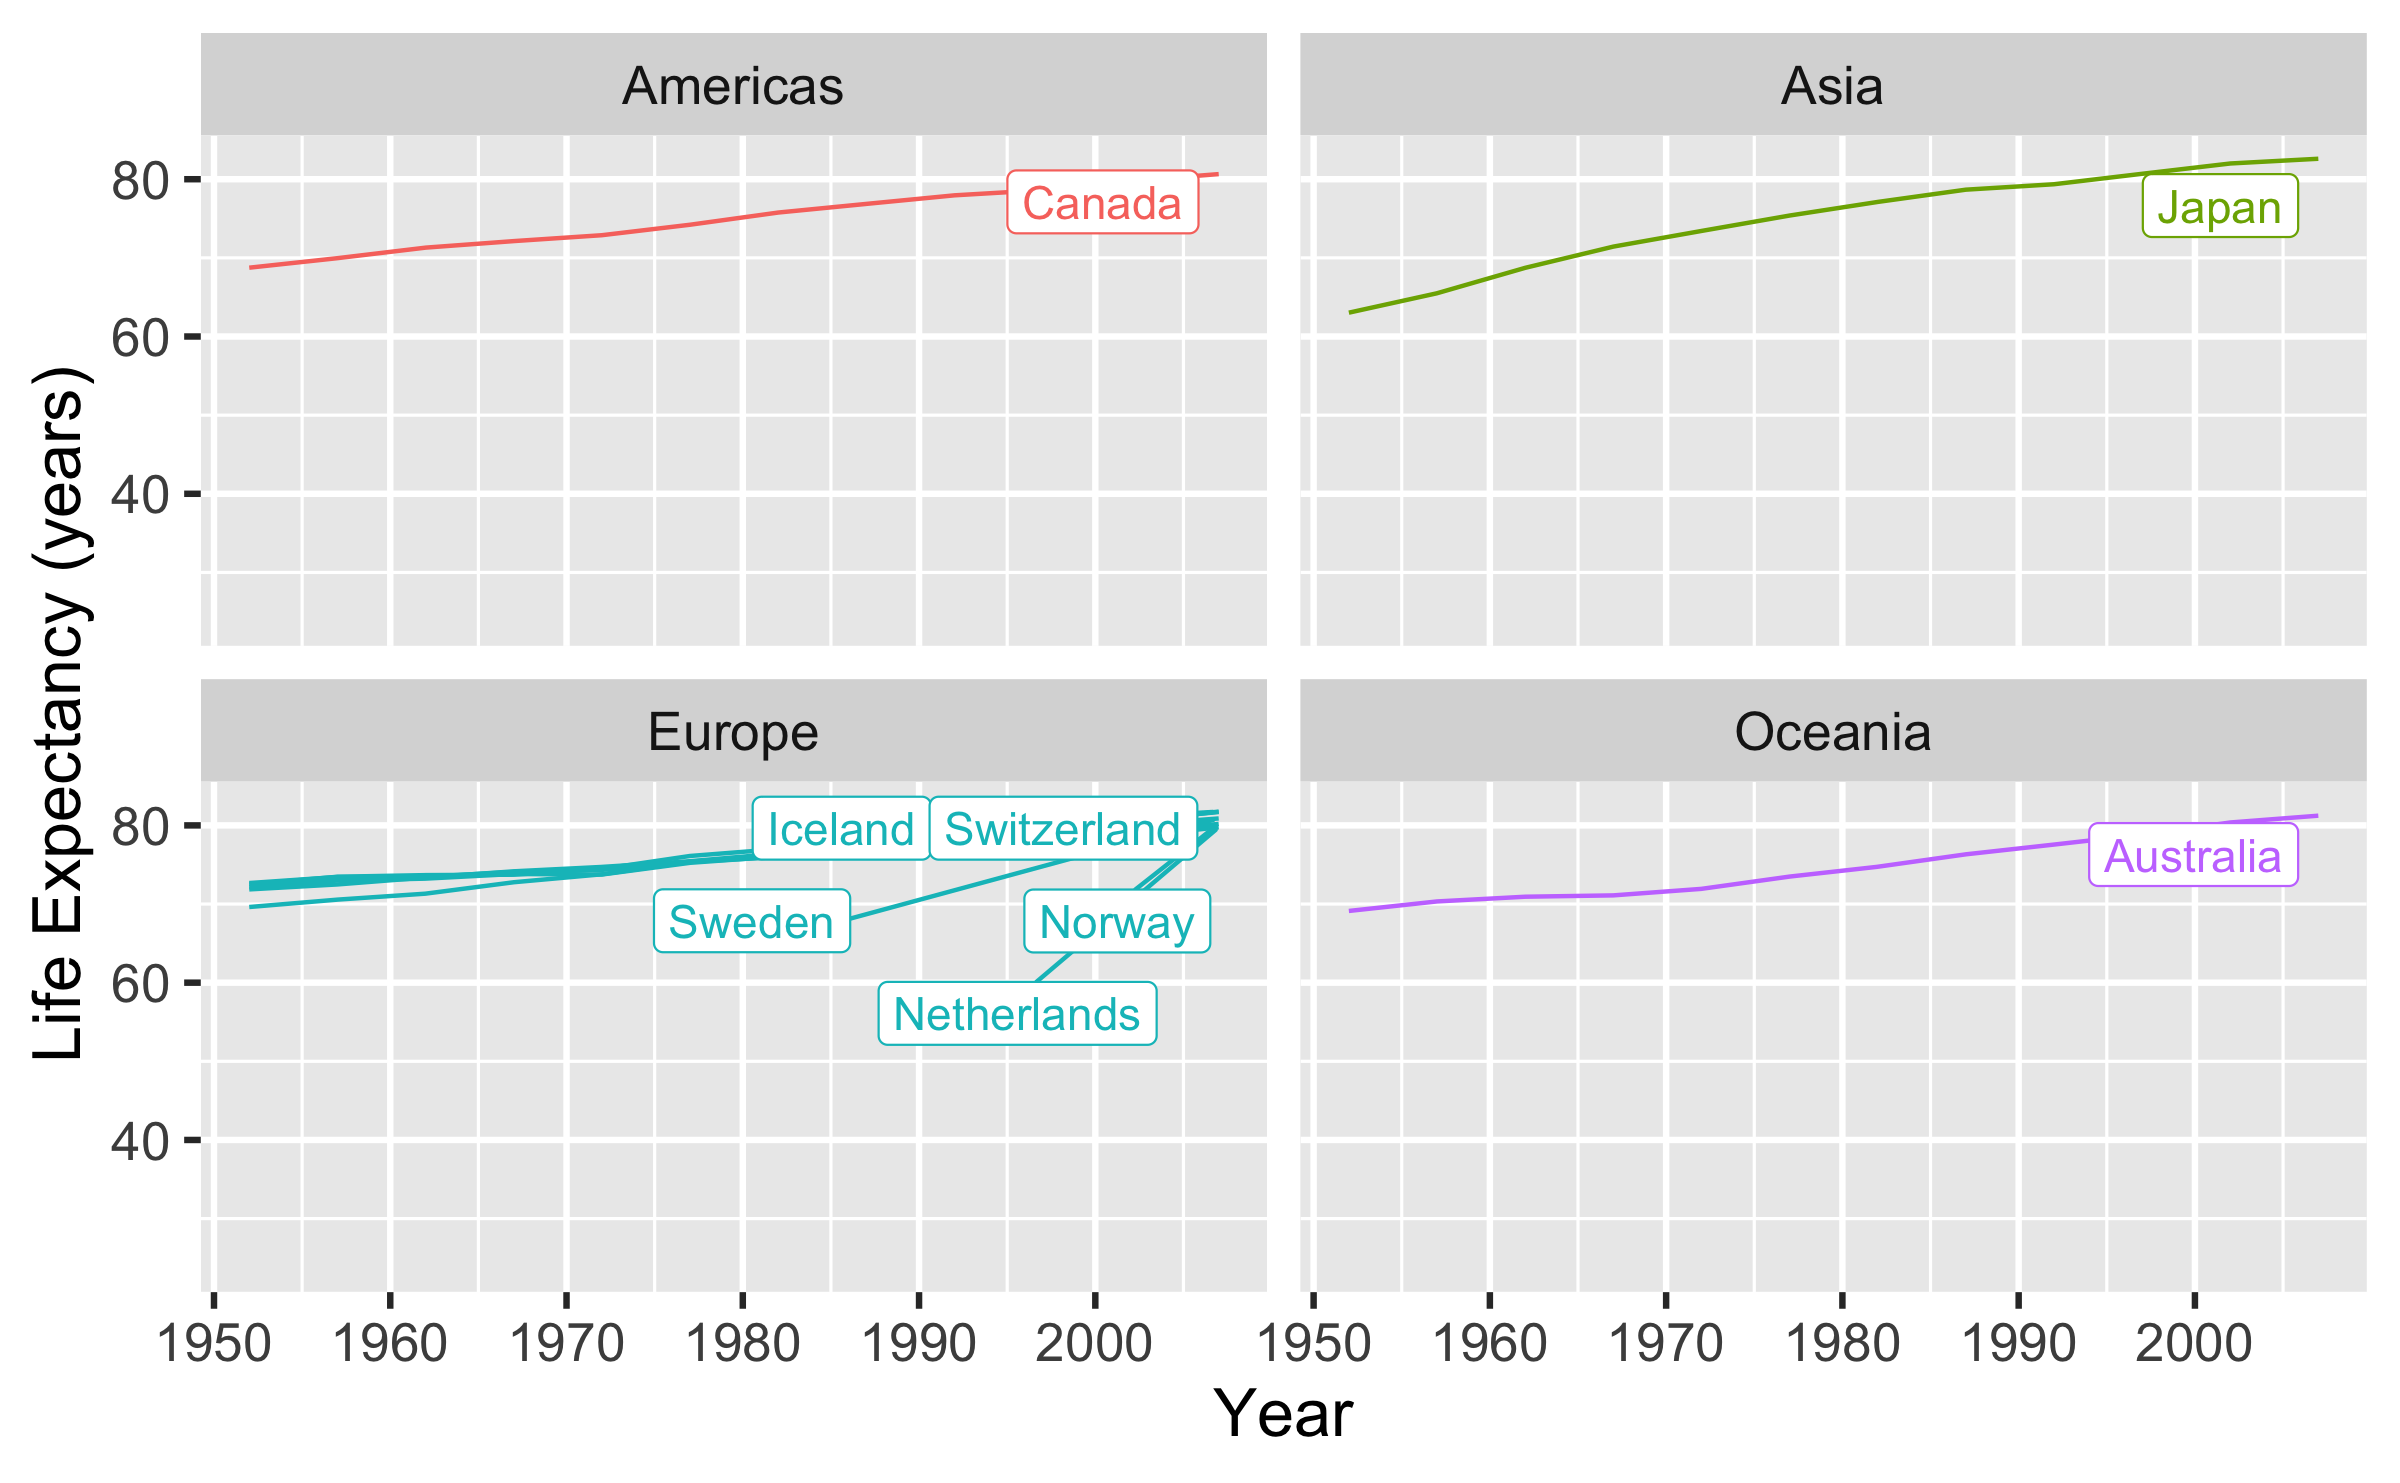
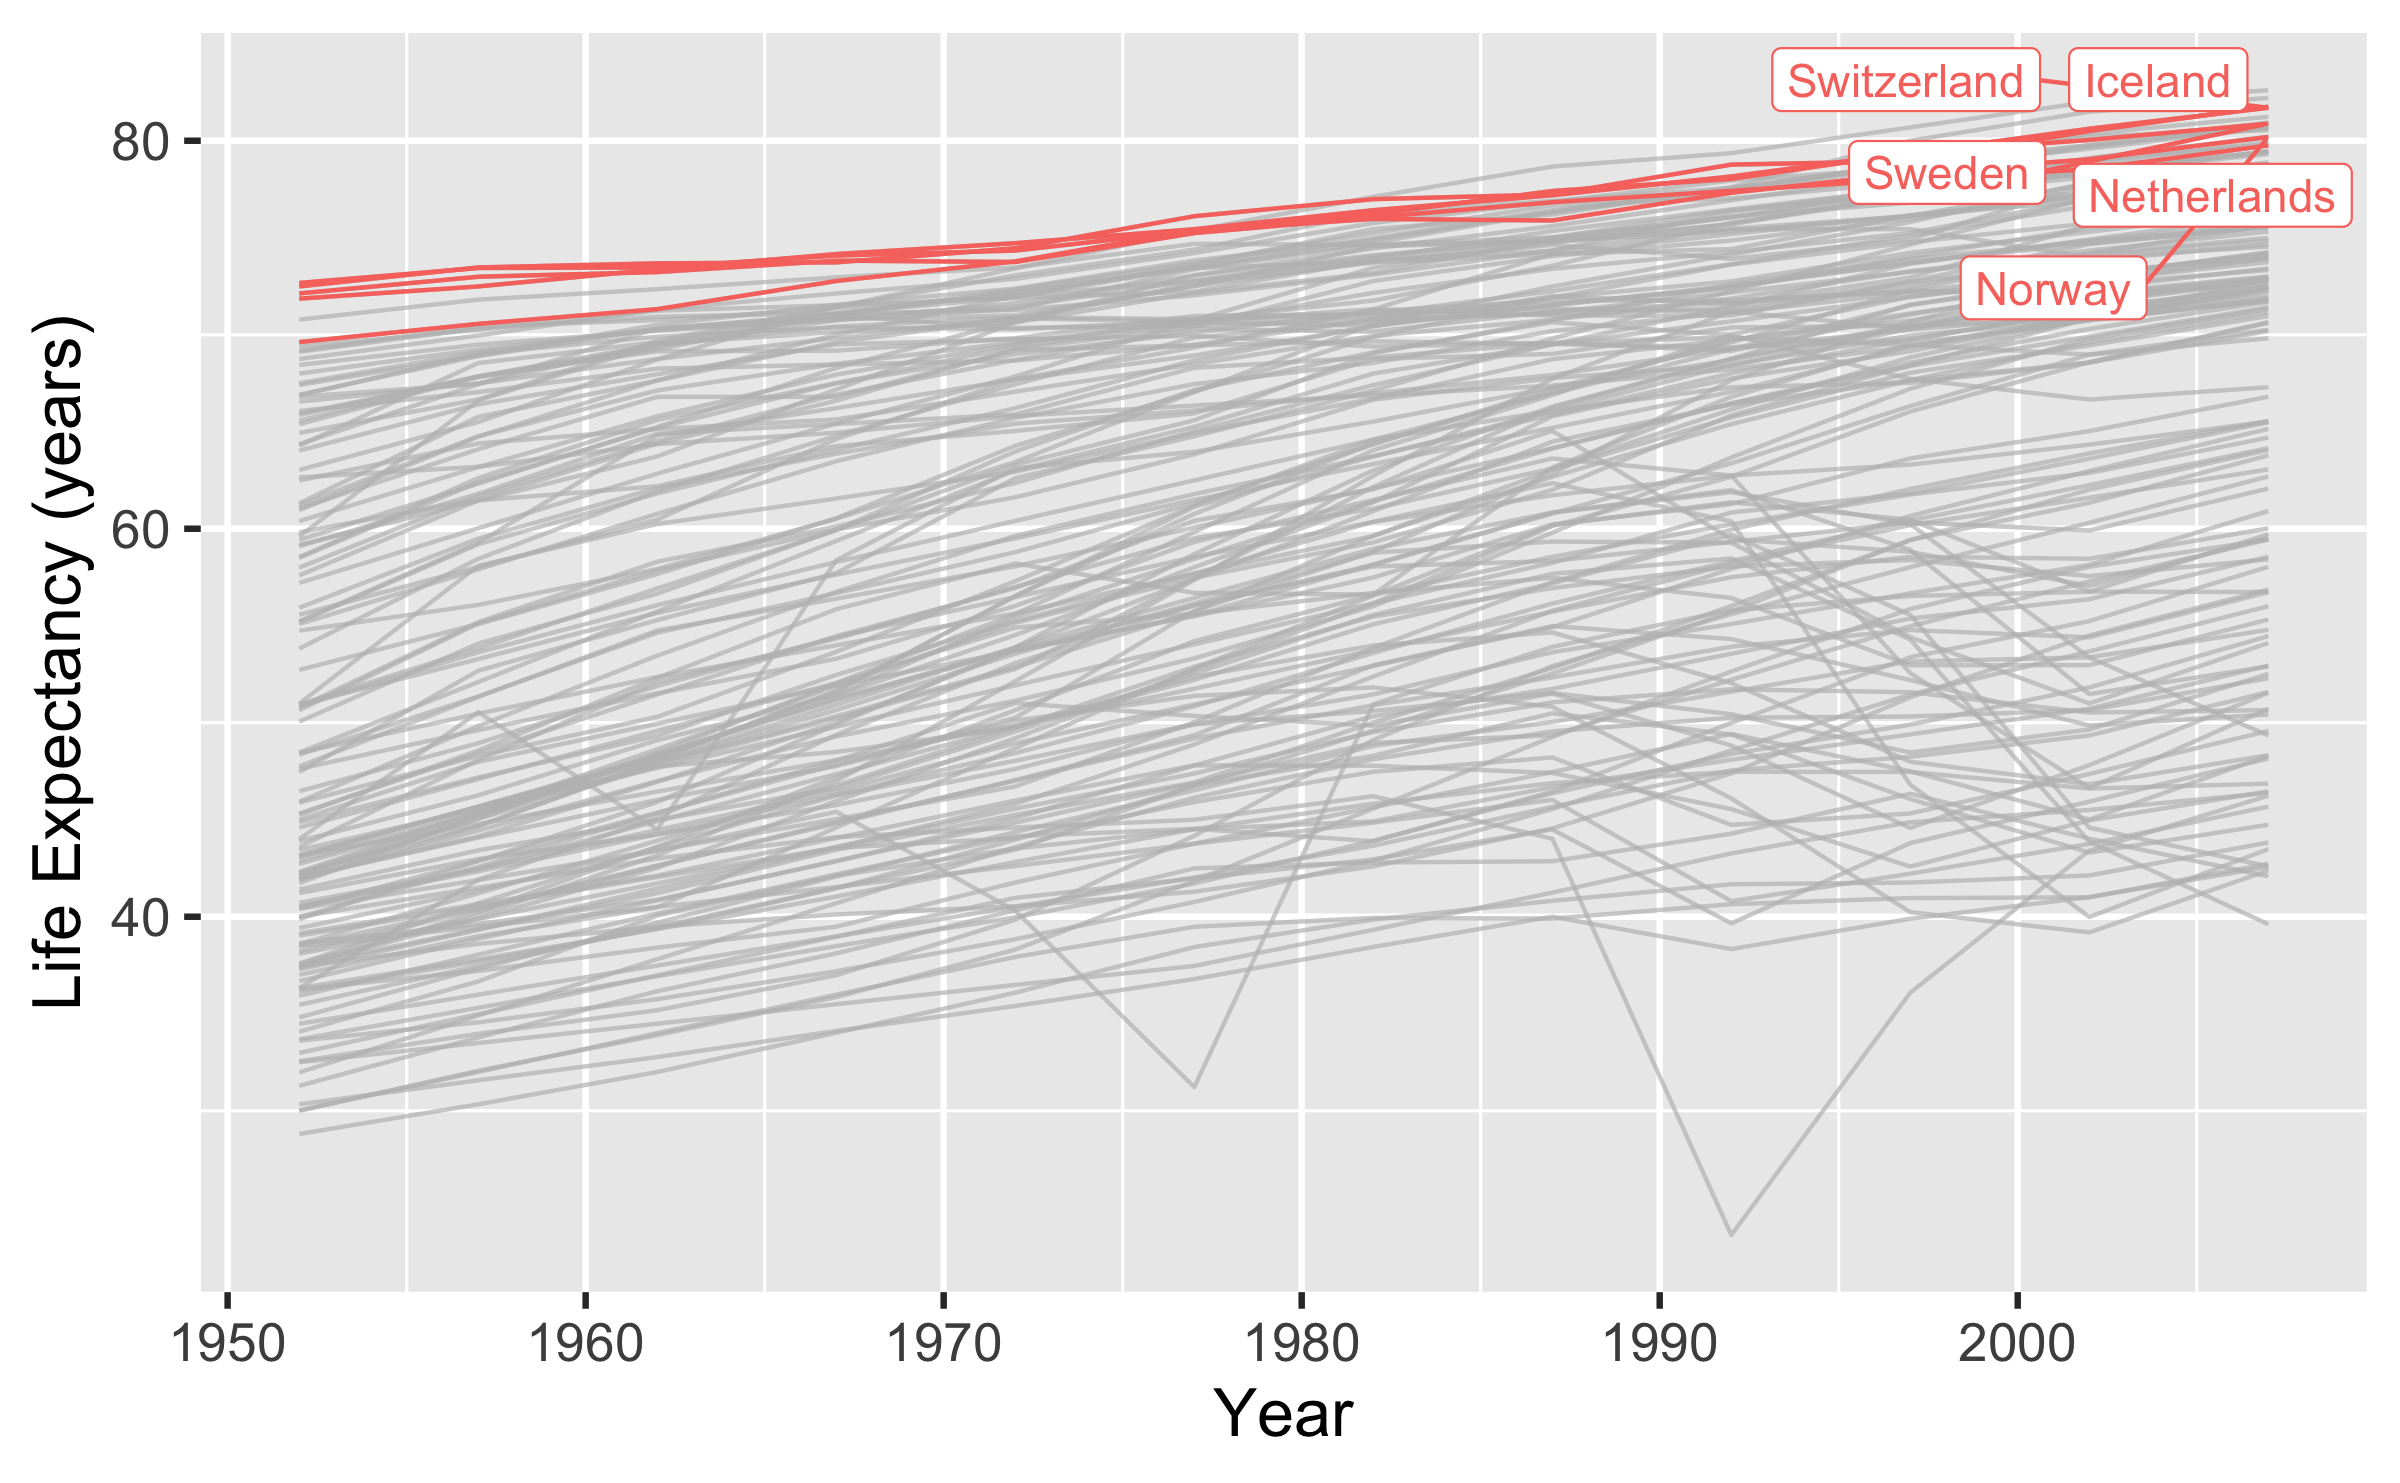
Space out annotation slides

diff --git a/course-materials/slides/u5-d10-axes-themes/u5-d10-axes-themes.html b/course-materials/slides/u5-d10-axes-themes/u5-d10-axes-themes.html
@@ -263,7 +263,7 @@ p1 + theme_economist()
 - [Cambodian Genocide](https://sfi.usc.edu/collections/cambodian-genocide)
 
 ---
-## Add annotations with `geom_vline`
+# Add annotations with `geom_vline`
 
 .panelset[
 &lt;div class="panel"&gt;
@@ -288,7 +288,7 @@ p1 + theme_economist()
 ]
 
 ---
-## Add annotations with `annotate`
+# Add annotations with `annotate`
 
 .panelset[
 &lt;div class="panel"&gt;
@@ -296,7 +296,13 @@ p1 + theme_economist()
 
 ```r
 p1 +
-  annotate("rect", xmin = 1975, xmax = 1979, ymin = 0, ymax = 100, alpha = 0.2, fill = "red")
+  annotate("rect", 
+  xmin = 1975, 
+  xmax = 1979, 
+  ymin = 0, 
+  ymax = 100, 
+  alpha = 0.2, 
+  fill = "red")
 ```
 
 
@@ -309,6 +315,7 @@ p1 +
 &lt;img src="u5-d10-axes-themes_files/figure-html/unnamed-chunk-12-1.png" width="60%" style="display: block; margin: auto;" /&gt;
 
 &lt;/div&gt;
+
 ---
 # Scales
 
@@ -326,6 +333,7 @@ p1 +
 ]
 
 ---
+# Scales
 
 .left-column[
 ### Scales
@@ -340,6 +348,8 @@ p1 +
 ]
 
 ---
+# Scales
+
 .left-column[
 ### Scales
 
@@ -381,6 +391,8 @@ p1 +
 ]
 
 ---
+# Scales
+
 .left-column[
 ### Scales
 
@@ -521,9 +533,7 @@ ggplot(aes(x = year,
   geom_line() +
   labs(x = "Year",
        y = "Life Expectancy (years)") +
-  facet_wrap(~continent) +
-  gghighlight(mean(lifeExp) &gt; 74.5,
-              unhighlighted_params = list(linewidth = 0.5, color = alpha(0.4))) 
+  gghighlight(mean(lifeExp) &gt; 75) 
 ```
 
 
@@ -537,9 +547,40 @@ ggplot(aes(x = year,
 
 &lt;/div&gt;
 ]
+---
+# Annotation - gghighlight
+
+.panelset[
+&lt;div class="panel"&gt;
+&lt;div class="panel-name"&gt;Code&lt;/div&gt;
+
+```r
+gapminder |&gt;
+ggplot(aes(x = year,
+      y = lifeExp, 
+      group = country, 
+      color = continent)) +
+  geom_line() +
+  labs(x = "Year",
+       y = "Life Expectancy (years)") +
+  facet_wrap(~continent) +
+  gghighlight(mean(lifeExp) &gt; 74.5) 
+```
+
+
+
+&lt;/div&gt;
+
+&lt;div class="panel"&gt;
+&lt;div class="panel-name"&gt;Plot&lt;/div&gt;
+
+&lt;img src="u5-d10-axes-themes_files/figure-html/unnamed-chunk-19-1.png" width="60%" style="display: block; margin: auto;" /&gt;
+
+&lt;/div&gt;
+]
 
 ---
-# Thank you
+# Your Turn
     </textarea>
 <style data-target="print-only">@media screen {.remark-slide-container{display:block;}.remark-slide-scaler{box-shadow:none;}}</style>
 <script src="https://remarkjs.com/downloads/remark-latest.min.js"></script>
